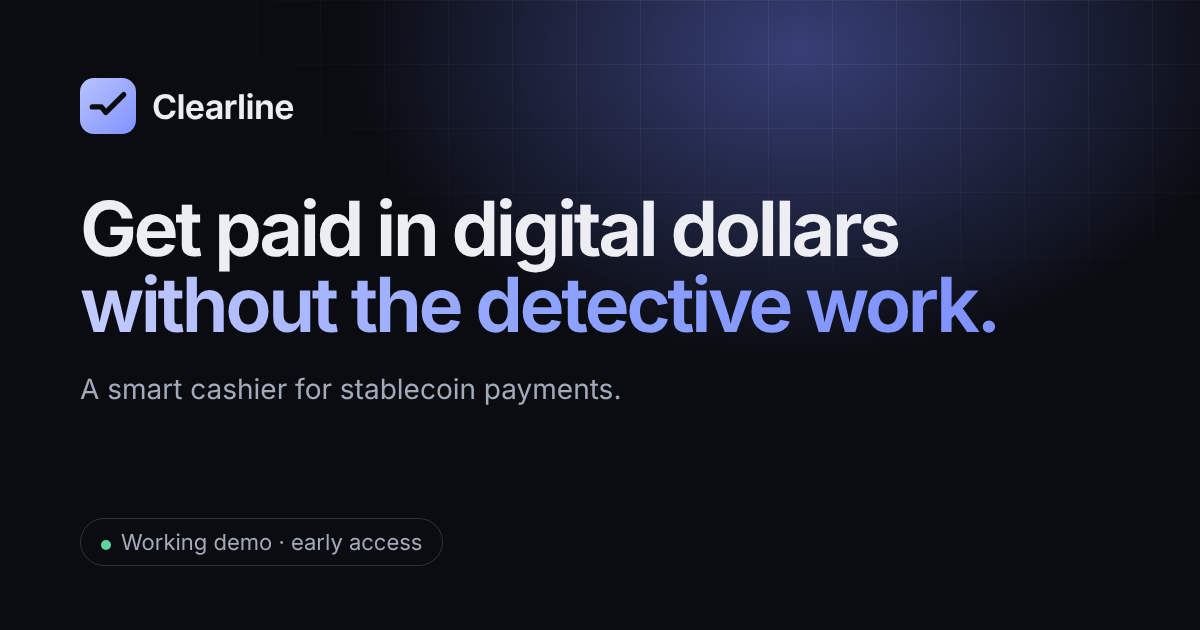
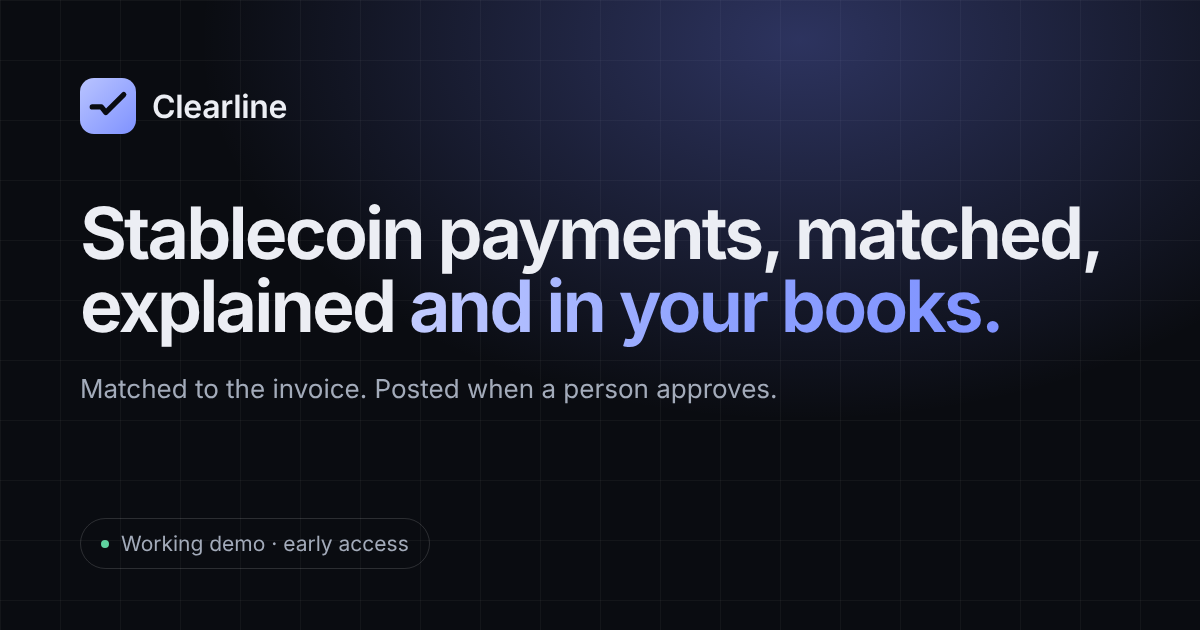
Website: new positioning, stablecoin payments into the books
- New headline and sub-line: "Stablecoin payments, matched, explained and in your books."
- How it works: step 4 "In your books", with Clearline's own posting panel in demo mode
  (fictional company), captioned with the honest Xero status.
- New "Why now" section: four sourced facts, each linking to its source; website/SOURCES.md added.
- FAQ: "Which accounting tools?" (Xero first, QuickBooks Online next, NetSuite on the roadmap)
  and "Don't other tools already do this?" (names Bitwave and Request Finance).
- Trust/FAQ wording: Clearline never touches money; it writes to the books only on approval.
- Share image, page title and footer updated to the new line.
- Screenshots: website/screenshots/books-desktop.png, books-mobile.png.

Claude-Session: https://claude.ai/code/session_01RFjzWTYCMNjthF5VK8b4X2

diff --git a/website/src/components/HowItWorks.tsx b/website/src/components/HowItWorks.tsx
@@ -1,8 +1,8 @@
 import { BrowserFrame, Eyebrow, Reveal, SectionTitle, Shot } from "./ui";
 
-function Step({ n, title, body, points, children, flip = false }: { n: string; title: string; body: string; points: string[]; children: React.ReactNode; flip?: boolean }) {
+function Step({ n, title, body, points, children, flip = false, wide = false }: { n: string; title: string; body: string; points: string[]; children: React.ReactNode; flip?: boolean; wide?: boolean }) {
   return (
-    <div className="grid items-start gap-10 md:grid-cols-2 md:gap-14">
+    <div className={`grid items-start gap-10 md:gap-14 ${wide ? (flip ? "md:grid-cols-[1.35fr_1fr]" : "md:grid-cols-[1fr_1.35fr]") : "md:grid-cols-2"}`}>
       <Reveal className={flip ? "md:order-2" : ""}>
         <p className="text-[13px] font-semibold uppercase tracking-[0.14em] text-accent">{n}</p>
         <h3 className="mt-3 text-balance text-[clamp(26px,3.2vw,36px)] font-semibold leading-[1.1] tracking-[-0.025em]">{title}</h3>
@@ -31,7 +31,7 @@ export function HowItWorks() {
           <Eyebrow>How it works</Eyebrow>
           <SectionTitle>Every payment explains itself.</SectionTitle>
           <p className="mt-6 text-[17px] leading-relaxed text-muted">
-            You create a payment request for each invoice in Clearline. From there, three moments, from your customer's screen to your finance team's.
+            You create a payment request for each invoice in Clearline. From there, four moments, from your customer's screen to your books.
           </p>
         </Reveal>
 
@@ -88,6 +88,29 @@ export function HowItWorks() {
                 <Shot name="fake-reply" w={1456} h={922} small={728} sizes="(min-width: 768px) 540px, 92vw" alt="A drafted reply to the fictional customer explaining that the tokens weren't real USDT and how to pay with genuine USDT." className="block h-auto w-full" />
               </BrowserFrame>
             </div>
+          </Step>
+
+          <Step
+            flip
+            wide
+            n="Step 4 · In your books"
+            title="Approve once, and it's in your books."
+            body="When a person approves, the payment posts to its invoice in your accounting system, with the transaction hash, token, network and USD value. Xero comes first. A short payment posts as a partial payment with a note, so the invoice stays open for the rest."
+            points={["Counterfeit and wrong-network payments are never posted", "Nothing is written to your books until a person approves", "Every posting, and every refusal, is kept in an audit log"]}
+          >
+            <figure>
+              <div className="space-y-4">
+                <BrowserFrame label="Clearline · In your books · demo data">
+                  <Shot name="books-posted" w={1312} h={632} small={656} sizes="(min-width: 768px) 640px, 92vw" alt="Clearline's 'In your books' panel for a fictional invoice, INV-1041: paid exactly 1,250.00 USDC, one payment applied to the invoice, approved by a fictional finance person. The posted line shows 1,250.00 USD with the token, network, transaction hash and date." className="block h-auto w-full" />
+                </BrowserFrame>
+                <BrowserFrame label="Clearline · In your books · demo data">
+                  <Shot name="books-partial" w={1312} h={762} small={656} sizes="(min-width: 768px) 640px, 92vw" alt="Clearline's 'In your books' panel for a fictional invoice, INV-1042: short by 50.00 USDC, so it will post as a partial payment of 4,950.00 with a note on the invoice, once a person presses 'Approve and post to the books'." className="block h-auto w-full" />
+                </BrowserFrame>
+              </div>
+              <figcaption className="mt-4 text-[13px] leading-relaxed text-faint">
+                Clearline&apos;s own posting screen in demo mode, for a fictional company (Northwind Pay). This is not Xero&apos;s screen. Xero connection: built and tested in demo mode; the first live test, with Xero&apos;s demo company, is next.
+              </figcaption>
+            </figure>
           </Step>
         </div>
       </div>

diff --git a/website/src/components/Sections.tsx b/website/src/components/Sections.tsx
@@ -42,7 +42,7 @@ export function BuiltFor() {
 }
 
 const trust = [
-  { title: "Read-only", body: "Clearline reads public blockchain records and your invoices. It never holds, moves or touches money, and never asks for wallet keys." },
+  { title: "Never touches money", body: "Clearline reads public blockchain records and your invoices. It never holds or moves money, and never asks for wallet keys. The only thing it writes is a posting to your books, and only when a person approves." },
   { title: "Shows its evidence", body: "Every verdict lists what it checked: amount, token contract, address, confirmations. Inferences are labelled as inferences." },
   { title: "A person decides", body: "It can block an obvious mistake, like counting a counterfeit as paid. Replies are drafts: you edit and send them yourself." },
   { title: "Your data, your call", body: "Today's demo runs on fictional data. Design-partner pilots use only what you choose to share, only for the pilot, deleted when you ask." },
@@ -75,11 +75,13 @@ export function Trust() {
 
 const faqs = [
   { q: "What are stablecoins?", a: "Digital dollars. A stablecoin like USDC (issued by Circle) or USDT (issued by Tether) is meant to be worth one US dollar each, and moves between accounts on a blockchain in seconds, any day of the week." },
-  { q: "Does Clearline hold my money?", a: "No. Clearline is read-only. It reads public blockchain records and your invoice list, and never holds, moves or has access to funds or wallet keys." },
+  { q: "Does Clearline hold my money?", a: "No. Clearline reads public blockchain records and your invoice list, and never holds, moves or has access to funds or wallet keys. The one thing it writes is a payment posted to your books, and only after a person approves it." },
   { q: "Which networks and tokens?", a: "Payment pages: USDC on Ethereum today. Checking a transfer someone reports: USDC and USDT on Ethereum, Tron and BNB Chain, including spotting payments sent on Polygon, Base, Arbitrum or Optimism instead. Design partners will shape what comes next." },
   { q: "Is it AI?", a: "The verdict (paid, short, counterfeit, wrong network) comes from fixed, written rules, and every verdict shows the evidence it used. An AI-written explanation is being built, but it hasn't been tested on real data, so nothing on this page relies on it." },
-  { q: "How do my invoices get in?", a: "Today you create a payment request in Clearline for each invoice. Connecting your accounting software is something we'll shape with design partners." },
-  { q: "Is it live?", a: "Not yet. It's a working demo running on fictional data. We're now looking for a small number of design partners to try it on their own payments." },
+  { q: "How do my invoices get in?", a: "Today you create a payment request in Clearline for each invoice. Once a payment is approved, Clearline posts it back to the invoice in your accounting system (see the next question)." },
+  { q: "Which accounting tools?", a: "Xero first: the connection is built and has been tested in demo mode with a fictional company, and the first live test, with Xero's demo company, is next. QuickBooks Online comes next, and NetSuite is on the roadmap. Before connecting anything, we'll ask which one you use." },
+  { q: "Don't other tools already do this?", a: "Some do parts of it. Crypto accounting tools such as Bitwave and Request Finance already sync stablecoin payments to accounting systems. Clearline focuses on businesses paid straight into their own wallet, and on the payments that arrive wrong (short, wrong network, counterfeit, no reference) and getting those into the books correctly. Whether that's where the pain is, we're testing with design partners." },
+  { q: "Is it live?", a: "Not yet. It's a working demo running on fictional data, with no customers yet. We're now looking for a small number of design partners to try it on their own payments." },
   { q: "How much does it cost?", a: "Free for design partners during the pilot. Pricing comes later, and we'll agree it with you before anything changes." },
 ];
 

diff --git a/website/src/components/WhyNow.tsx b/website/src/components/WhyNow.tsx
@@ -1,0 +1,62 @@
+import { Eyebrow, Reveal, SectionTitle } from "./ui";
+
+// Every fact here is in website/SOURCES.md, with the quoted line from its source.
+const facts = [
+  {
+    figure: "~$400B",
+    body: "of real-economy stablecoin payments in 2025, about 60% of them business-to-business (the B2B share is Bessemer's estimate).",
+    source: "Bessemer Venture Partners, Apr 2026",
+    href: "https://www.bvp.com/atlas/stablecoins-from-defi-primitive-to-global-financial-infrastructure",
+  },
+  {
+    figure: "$350–550B",
+    body: "of the $28–62T in stablecoin transfers in 2025 were real payments. The rest was trading and moving funds between wallets and exchanges.",
+    source: "Reap, Aug 2026, citing BIS, BCG × Allium and McKinsey",
+    href: "https://reap.global/blog/stablecoin-statistics-2026",
+  },
+  {
+    figure: "62% · 53%",
+    body: "Businesses' top uses: paying suppliers cross-border (62%) and accepting cross-border payments (53%).",
+    source: "EY-Parthenon 2025 survey of 350 decision-makers, via Reap",
+    href: "https://reap.global/blog/stablecoin-statistics-2026",
+  },
+  {
+    figure: "One-stop shops",
+    body: "Stripe, Circle and Coinbase are using their reach to become one-stop shops. Bessemer expects the most promising early startups to build outside their paths.",
+    source: "Bessemer Venture Partners, Apr 2026",
+    href: "https://www.bvp.com/atlas/stablecoins-from-defi-primitive-to-global-financial-infrastructure",
+  },
+];
+
+export function WhyNow() {
+  return (
+    <section id="why-now" className="mx-auto max-w-6xl scroll-mt-24 px-5 py-20 sm:px-8 sm:py-24">
+      <Reveal className="max-w-2xl">
+        <Eyebrow>Why now</Eyebrow>
+        <SectionTitle>Real business payments: a small, growing slice.</SectionTitle>
+        <p className="mt-6 text-[17px] leading-relaxed text-muted">
+          Most stablecoin volume is still trading. The part that is real payments is growing, and much of it is between businesses.
+        </p>
+      </Reveal>
+      <ul className="mt-14 grid gap-4 sm:grid-cols-2">
+        {facts.map((f, i) => (
+          <li key={f.figure}>
+            <Reveal delay={0.06 * i} className="flex h-full flex-col rounded-2xl border border-line bg-panel/60 p-7">
+              <p className="text-[clamp(28px,3.4vw,38px)] font-semibold leading-none tracking-[-0.03em] text-fg">{f.figure}</p>
+              <p className="mt-4 flex-1 text-[15.5px] leading-relaxed text-muted">{f.body}</p>
+              <p className="mt-5 text-[12.5px] text-faint">
+                Source:{" "}
+                <a href={f.href} target="_blank" rel="noopener" className="underline decoration-line-strong underline-offset-2 hover:text-fg">
+                  {f.source}
+                </a>
+              </p>
+            </Reveal>
+          </li>
+        ))}
+      </ul>
+      <Reveal delay={0.1}>
+        <p className="mt-6 text-[12.5px] text-faint">Third-party figures, quoted as published. The EY-Parthenon survey is from mid-2025 and is a directional snapshot.</p>
+      </Reveal>
+    </section>
+  );
+}

diff --git a/website/src/components/Hero.tsx b/website/src/components/Hero.tsx
@@ -16,7 +16,7 @@ export function Hero() {
         </div>
 
         <h1 style={{ ["--d" as string]: "0.05s" }} className="rise mx-auto mt-6 max-w-4xl text-balance text-center text-[clamp(38px,6.2vw,68px)] font-semibold leading-[1.0] tracking-[-0.04em]">
-          Get paid in digital dollars <span className="bg-gradient-to-r from-[#c3ccff] via-accent to-[#7f92ff] bg-clip-text text-transparent">without the detective work.</span>
+          Stablecoin payments, matched, explained <span className="bg-gradient-to-r from-[#c3ccff] via-accent to-[#7f92ff] bg-clip-text text-transparent">and in your books.</span>
         </h1>
 
         <p style={{ ["--d" as string]: "0.12s" }} className="rise mx-auto mt-6 max-w-2xl text-pretty text-center text-[clamp(16.5px,1.9vw,19px)] leading-relaxed text-muted">
@@ -31,7 +31,7 @@ export function Hero() {
           </SecondaryButton>
         </div>
         <p className="mx-auto mt-5 max-w-xl text-balance text-center text-[13.5px] text-faint">
-          For finance teams paid in stablecoins (digital dollars such as USDC): every payment matched to its invoice, every problem explained.
+          For finance teams paid in stablecoins (digital dollars such as USDC): every payment matched to its invoice, every problem explained, nothing posted to your books until a person approves.
         </p>
 
         <div style={{ ["--d" as string]: "0.25s" }} className="rise relative mx-auto mt-10 max-w-5xl sm:mt-12">

diff --git a/website/src/lib/site.ts b/website/src/lib/site.ts
@@ -8,11 +8,11 @@ export const site = {
   contactEmail: process.env.NEXT_PUBLIC_CONTACT_EMAIL || "",
   linkedin: "https://www.linkedin.com/in/aashmiin-kaur-479665391",
   founder: "Aashmiin Kaur",
-  headline: "Get paid in digital dollars without the detective work.",
+  headline: "Stablecoin payments, matched, explained and in your books.",
   subline:
-    "Clearline is a smart cashier for stablecoin payments. It tells customers exactly how to pay, ticks off correct payments automatically, and explains the wrong ones in plain English, with the reply drafted.",
+    "Clearline asks for each payment clearly, matches it to its invoice, checks it's genuine, explains anything that went wrong in plain English, and posts it to your accounting system when you approve.",
   description:
-    "Clearline is a smart cashier for stablecoin payments: it tells customers exactly how to pay, ticks off correct payments automatically, and explains the wrong ones in plain English. Working demo, seeking design partners.",
+    "Clearline asks for each stablecoin payment clearly, matches it to its invoice, checks it's genuine, explains anything that went wrong in plain English, and posts it to your accounting system when you approve. Working demo, seeking design partners.",
 };
 
 /** Where "Book a 15-minute call" goes: the booking page if set, otherwise the design-partner form. */

diff --git a/website/src/app/layout.tsx b/website/src/app/layout.tsx
@@ -7,15 +7,15 @@ import { UtmCapture } from "@/components/UtmCapture";
 
 export const metadata: Metadata = {
   metadataBase: new URL(site.url),
-  title: { default: `${site.name}: get paid in digital dollars without the detective work`, template: `%s · ${site.name}` },
+  title: { default: `${site.name}: stablecoin payments, matched, explained and in your books`, template: `%s · ${site.name}` },
   description: site.description,
   applicationName: site.name,
   openGraph: {
     type: "website",
     siteName: site.name,
-    title: `${site.name}: get paid in digital dollars without the detective work`,
+    title: `${site.name}: stablecoin payments, matched, explained and in your books`,
     description: site.description,
-    images: [{ url: "/og.png", width: 1200, height: 630, alt: "Clearline: get paid in digital dollars without the detective work" }],
+    images: [{ url: "/og.png", width: 1200, height: 630, alt: "Clearline: stablecoin payments, matched, explained and in your books" }],
   },
   twitter: { card: "summary_large_image", images: ["/og.png"] },
   icons: { icon: "/icon.svg", apple: "/apple-icon.png" },

diff --git a/website/src/app/page.tsx b/website/src/app/page.tsx
@@ -2,6 +2,7 @@ import { Hero } from "@/components/Hero";
 import { HowItWorks } from "@/components/HowItWorks";
 import { Partners } from "@/components/Partners";
 import { Problem } from "@/components/Problem";
+import { WhyNow } from "@/components/WhyNow";
 import { BuiltFor, Demo, Faq, FinalCta, Trust } from "@/components/Sections";
 import { Footer, Header, Motion } from "@/components/ui";
 
@@ -15,6 +16,7 @@ export default function Home() {
         <Problem />
         <HowItWorks />
         <BuiltFor />
+        <WhyNow />
         <Trust />
         <Partners />
         <Faq />

diff --git a/website/src/components/ui.tsx b/website/src/components/ui.tsx
@@ -147,7 +147,7 @@ export function Footer() {
         <div>
           <Logo />
           <p className="mt-4 max-w-sm text-[14px] leading-relaxed text-muted">
-            A smart cashier for stablecoin payments. Working demo, seeking design partners.
+            Stablecoin payments, matched, explained and in your books. Working demo, seeking design partners.
           </p>
           <p className="mt-4 text-[13px] text-faint">Built by {site.founder}, SMU.</p>
         </div>

diff --git a/website/SOURCES.md b/website/SOURCES.md
@@ -1,0 +1,47 @@
+# Sources for the Clearline story
+
+Only these facts are used in the website, mentor brief, film and emails. Each was checked against
+the page text on 28 Oct 2026 (the pages' full text is kept alongside this file). Labels: [VERIFIED]
+= the quoted line is on the cited page.
+
+## Why now
+
+1. **~$400B real-economy stablecoin payments in 2025, ~60% B2B.** [VERIFIED]
+   Bessemer Venture Partners, "Stablecoins: from DeFi primitive to global financial infrastructure",
+   published 22 Apr 2026. https://www.bvp.com/atlas/stablecoins-from-defi-primitive-to-global-financial-infrastructure
+   > "real-world stablecoin payments volume doubled in 2025 to $400B, 60% of which is estimated to be B2B payments"
+   Note: the 60% B2B share is Bessemer's estimate.
+
+2. **Only ~$350–550B of the $28–62T in stablecoin transfers in 2025 were real payments.** [VERIFIED]
+   Reap, "Stablecoin Statistics & Data 2026: All You Need To Know", 14 Aug 2026 (citing BIS, BCG × Allium, McKinsey).
+   https://reap.global/blog/stablecoin-statistics-2026
+   > "Of the $28–62 trillion in stablecoin transfers in 2025, only about $350–550 billion was genuine real-economy payments — the rest is trading and moving funds between wallets and exchanges. (BIS; BCG × Allium; McKinsey)"
+
+3. **Top business use cases: paying suppliers cross-border (62%) and accepting cross-border payments (53%).** [VERIFIED]
+   EY-Parthenon 2025 survey of 350 corporate and financial-institution decision-makers, as reported by Reap (same page).
+   > "the leading use cases are paying suppliers cross-border (62%) and accepting cross-border payments (53%)."
+   Note: mid-2025 survey, before the GENIUS Act was signed; Reap calls it "a directional adoption snapshot". We cite it via Reap; the original EY-Parthenon report was not opened.
+
+4. **The big players are vertically integrating; startups should build outside their paths.** [VERIFIED]
+   Bessemer (same article).
+   > "Large companies like Stripe, Circle, and Coinbase are leveraging their distribution to become one-stop shops."
+   > "We think the most promising early stage startups building today will navigate outside the paths of Stripe, Circle, and Coinbase, and find other mission-critical spaces to generate value."
+
+## Competitors we must acknowledge (checked 28 Oct 2026)
+
+- **Bitwave** says it supports stablecoin invoices and accounts receivable, and syncs payments with
+  ERPs "(NetSuite, Xero, QuickBooks, Sage, and more)". https://www.bitwave.io/request-a-demo-stablecoin-b2b-payments [VERIFIED]
+- **Request Finance** syncs bills (crypto and fiat) to QuickBooks Online, Xero and NetSuite.
+  https://help.request.finance/en/articles/13038304-accounting-integrations-overview [VERIFIED]
+So "nobody connects stablecoin payments to the books" is FALSE. Our honest wedge [ASSUMPTION, to test in
+customer calls]: smaller businesses that are paid straight into their own wallet, where the hard part is
+the payments that arrive wrong (short, wrong network, fake token, no reference) and getting them into
+the books correctly, not the happy path.
+
+## Not used (no original source found)
+
+- "70% of corporate executives would adopt stablecoin payments faster if they integrated with their ERP"
+  appears in AI-generated research summaries attributed to Stripe/Tazapay; the original survey was not
+  found. Do not use it.
+- "$6 billion a month B2B cross-border", "85% of EM trading desks don't own liquidity", Tazapay / Instagram /
+  LinkedIn figures: not verified. Do not use.

diff --git a/website/README.md b/website/README.md
@@ -58,4 +58,6 @@ Add UTM tags to every link you share. The form saves the first tags a visitor ar
 - **Words:** the approved film script (`demo/video/script_final.md`), the 6-slide mentor brief, and `demo/REQUESTS_DEMO.md`.
 - **Screenshots:** the real app in demo mode (dark theme, 2x), fictional company "Northwind Pay". Captured with `pitch/src/capture_shots.py`, plus fresh hero and phone shots.
 - **Film:** `pitch/demo_live_60s.mp4`, re-encoded to 1280p (2.5 MB).
+- **"Why now" figures:** only the facts in `website/SOURCES.md`, each with its source link and the quoted line. Add nothing there that isn't in that file.
+- **"In your books" screenshots:** Clearline's own posting panel in demo mode (fictional company), not Xero's screen.
 - **"52 of 52":** the held-out real-transaction test reported in `pitch/NOTE.md`. It's labelled on the page as our own test.
